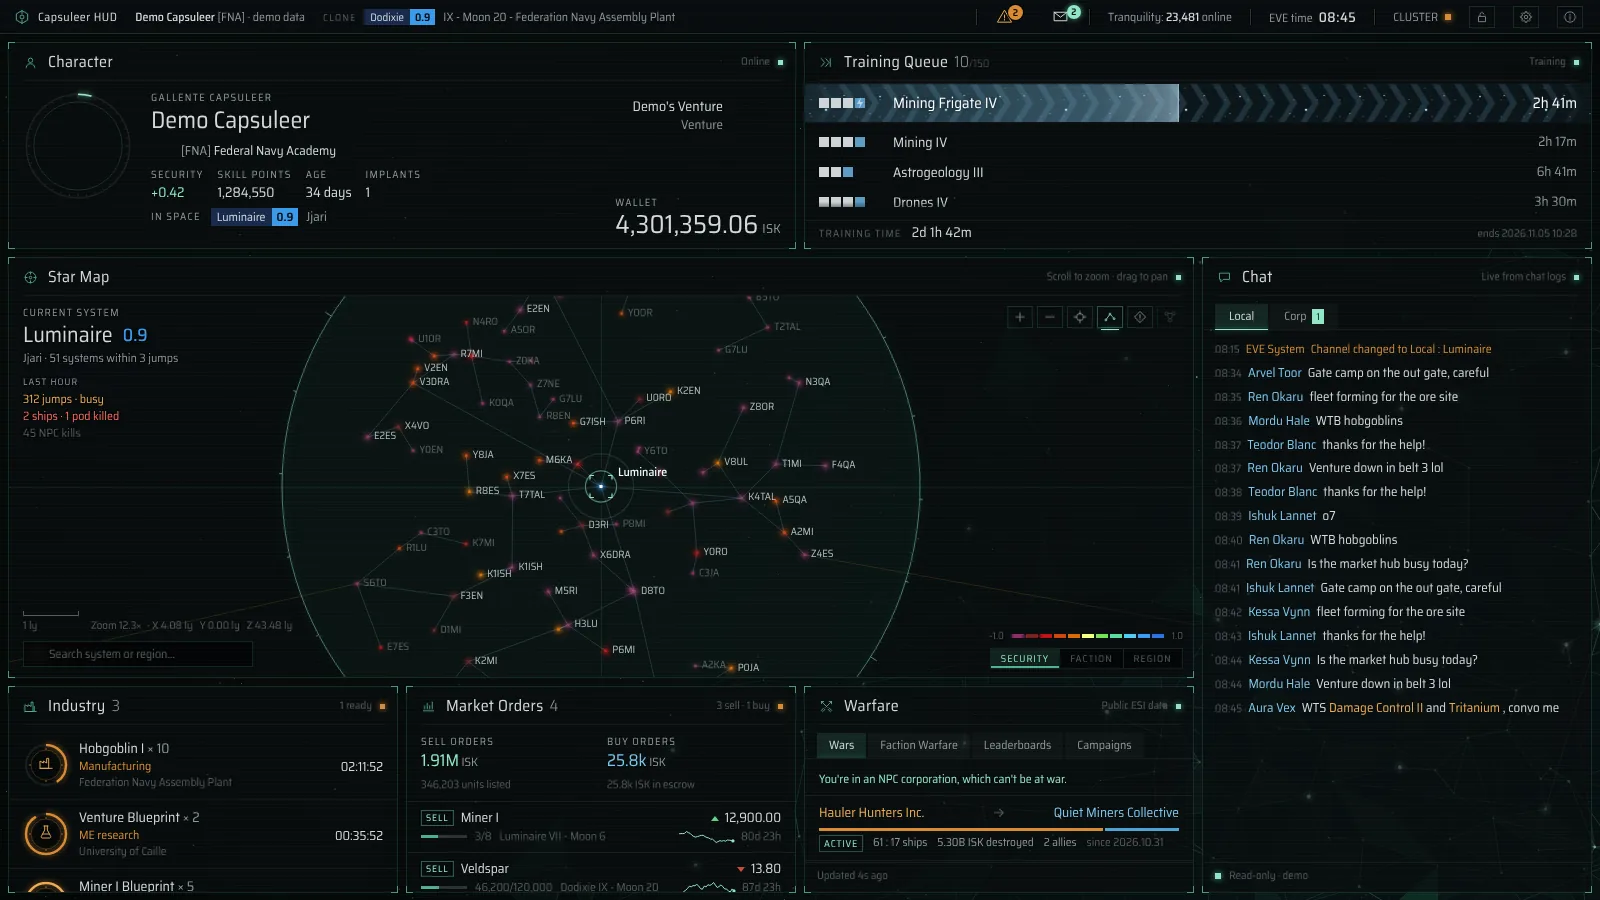
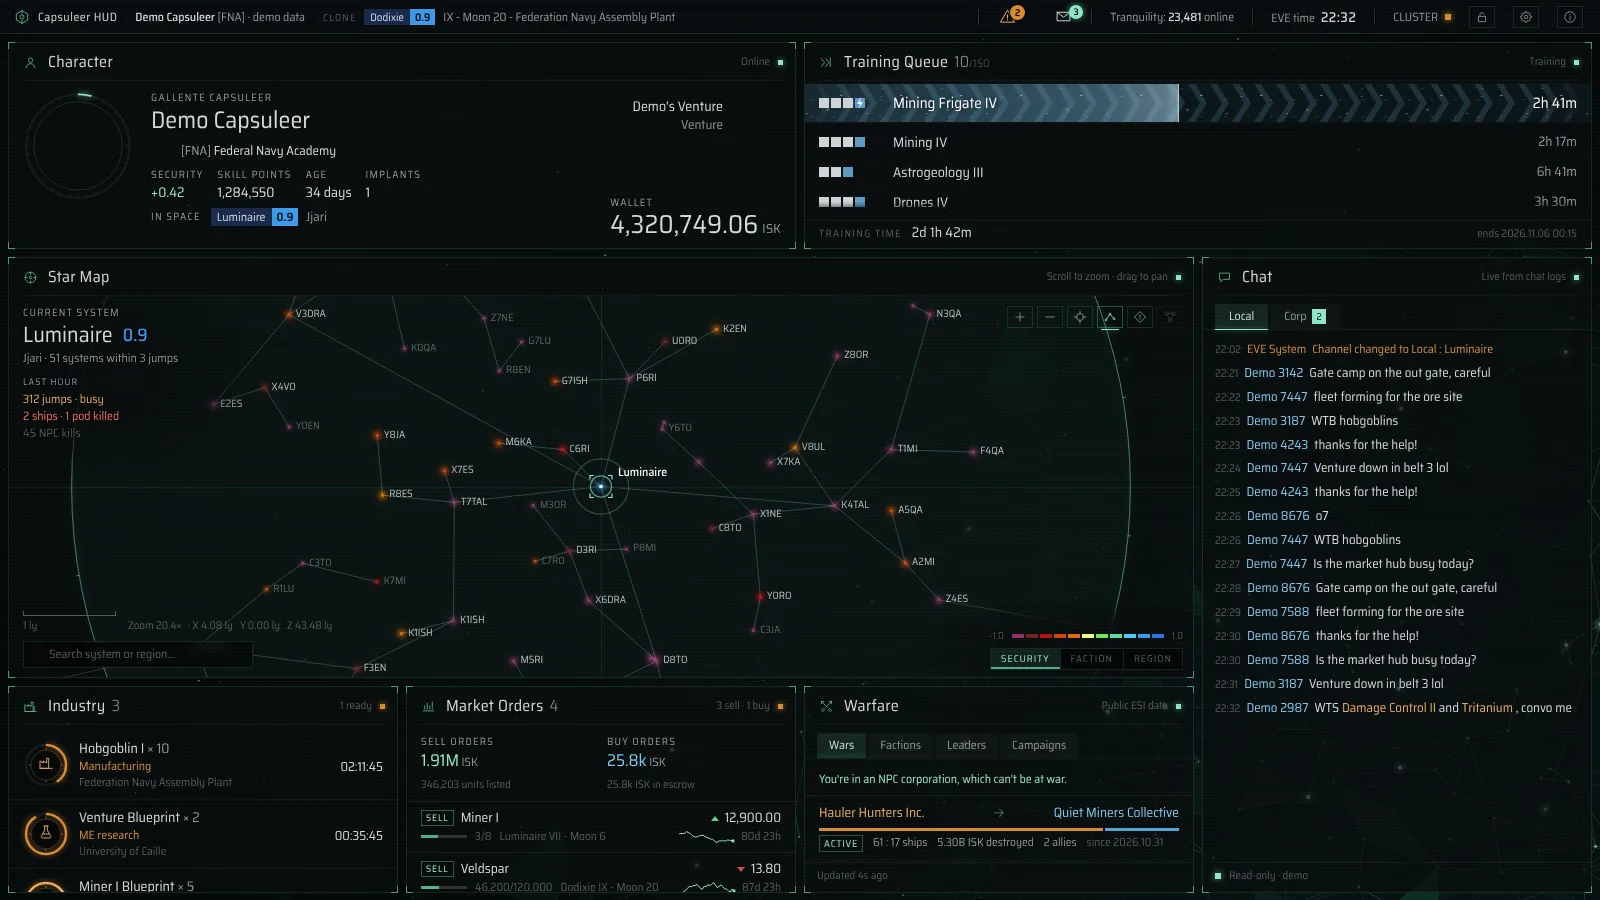
Small Demo Site Fixes

diff --git a/hud/lib/demo.js b/hud/lib/demo.js
@@ -120,15 +120,14 @@ const SKILLS = [
 export function createDemo(universe, publish) {
   const now = Date.now();
   const sys = universe.findByName('Luminaire') || universe.system(30000001);
-  const pilots = [
-    'Arvel Toor',
-    'Kessa Vynn',
-    'Mordu Hale',
-    'Ishuk Lannet',
-    'Ren Okaru',
-    'Teodor Blanc',
-    'Sora Ivanov',
-  ];
+  // other pilots (chat, kills): "Demo" and a number, not invented people's names; the numbers
+  // are random but the same at every start
+  const nr = rng(5);
+  const pilots = [];
+  while (pilots.length < 9) {
+    const name = `Demo ${1000 + Math.floor(nr() * 9000)}`;
+    if (!pilots.includes(name)) pilots.push(name);
+  }
   const lines = [
     'anyone selling scordite?',
     'o7',
@@ -417,9 +416,9 @@ export function createDemo(universe, publish) {
         expense,
         sources: sources.sort((a, b) => b.income + b.expense - (a.income + a.expense)),
         agents: [
-          { id: 3017001, name: 'Aurel Valcour', isk: 1_240_000 * f, count: Math.round(3 * f) },
-          { id: 3017002, name: 'Mirelle Daussin', isk: 690_000 * f, count: Math.round(2 * f) },
-          { id: 3017003, name: 'Jorvan Teskel', isk: 220_000 * f, count: Math.max(1, Math.round(f)) },
+          { id: 3017001, name: 'NPC Aurel', isk: 1_240_000 * f, count: Math.round(3 * f) },
+          { id: 3017002, name: 'NPC Mirelle', isk: 690_000 * f, count: Math.round(2 * f) },
+          { id: 3017003, name: 'NPC Jorvan', isk: 220_000 * f, count: Math.max(1, Math.round(f)) },
         ],
         systems: [
           { id: nm(1).id, name: nm(1).name, sec: nm(1).sec, isk: 910_000 * f, count: Math.round(2 * f) },
@@ -573,8 +572,8 @@ export function createDemo(universe, publish) {
         { id: 1000135, name: 'Serpentis Corporation', standing: -3.4 },
       ],
       agents: [
-        { id: 3017001, name: 'Aurel Valcour', standing: 5.2 },
-        { id: 3017002, name: 'Mirelle Daussin', standing: 2.1 },
+        { id: 3017001, name: 'NPC Aurel', standing: 5.2 },
+        { id: 3017002, name: 'NPC Mirelle', standing: 2.1 },
       ],
     };
     const km = (i, loss, shipTypeId, shipName, value, extra = {}) => ({
@@ -591,7 +590,7 @@ export function createDemo(universe, publish) {
       attackers: loss ? 3 + i : 1 + (i % 4),
       finalBlow: !loss && i % 2 === 0,
       solo: !loss && i % 4 === 1,
-      victimName: loss ? 'Demo Capsuleer' : ['Kessa Vynn', 'Mordu Hale', 'Ishuk Lannet', 'Ren Okaru'][i % 4],
+      victimName: loss ? 'Demo Capsuleer' : pilots[1 + (i % 4)],
       victimCorp: loss ? 'Federal Navy Academy' : 'Dark Harbour Logistics',
       myShipName: loss ? null : 'Tristan',
       ...extra,
@@ -944,7 +943,7 @@ export function createDemo(universe, publish) {
     for (let i = n; i > 0; i--) {
       chat[id].push({
         t: now - i * 47_000,
-        from: pilots[Math.floor(r() * pilots.length)],
+        from: pilots[Math.floor(r() * 7)],
         text: lines[Math.floor(r() * lines.length)],
         system: false,
         self: false,
@@ -975,8 +974,8 @@ export function createDemo(universe, publish) {
     system: false,
     self,
   });
-  chat.local.push(linked('Aura Vex', 'WTS  Damage Control II  and  Tritanium  , convo me'));
-  chat.corp.push(linked('Mira Solenne', 'fit a  Damage Control II  on your  Rifter  and meet in  Jita'));
+  chat.local.push(linked(pilots[7], 'WTS  Damage Control II  and  Tritanium  , convo me'));
+  chat.corp.push(linked(pilots[8], 'fit a  Damage Control II  on your  Rifter  and meet in  Jita'));
 
   function start(publishChat) {
     for (const name of Object.keys(feeds)) emit(name);
@@ -1012,7 +1011,7 @@ export function createDemo(universe, publish) {
       const channel = r() < 0.65 ? 'local' : 'corp';
       const msg = {
         t: Date.now(),
-        from: pilots[Math.floor(r() * pilots.length)],
+        from: pilots[Math.floor(r() * 7)],
         text: lines[Math.floor(r() * lines.length)],
         system: false,
         self: false,
